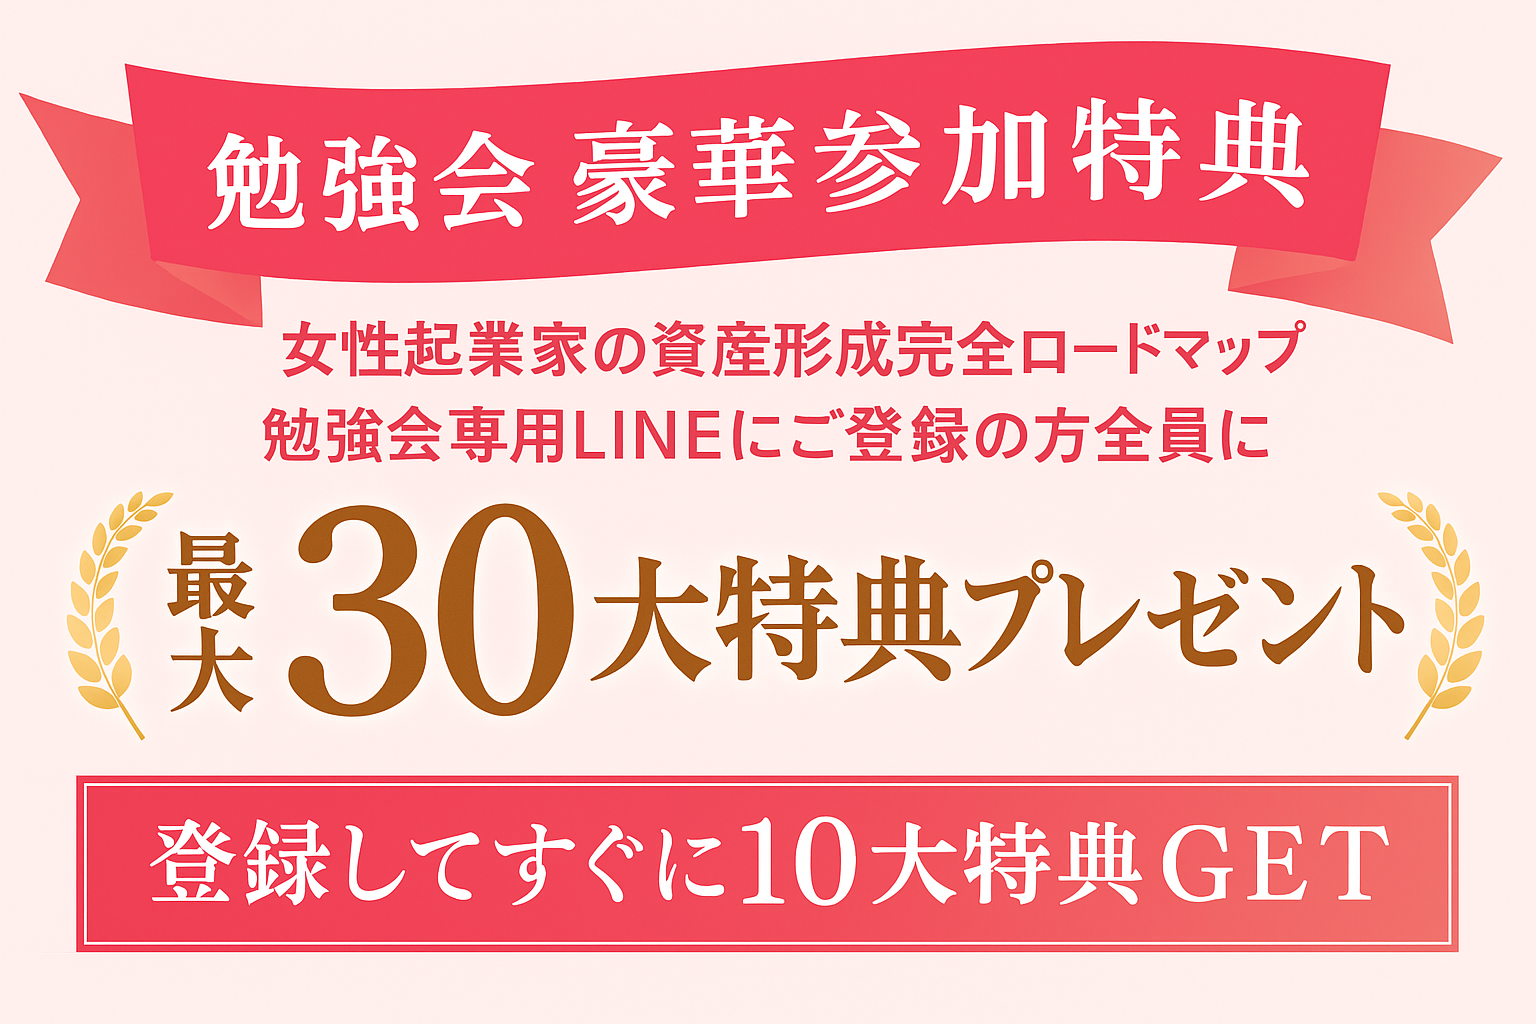
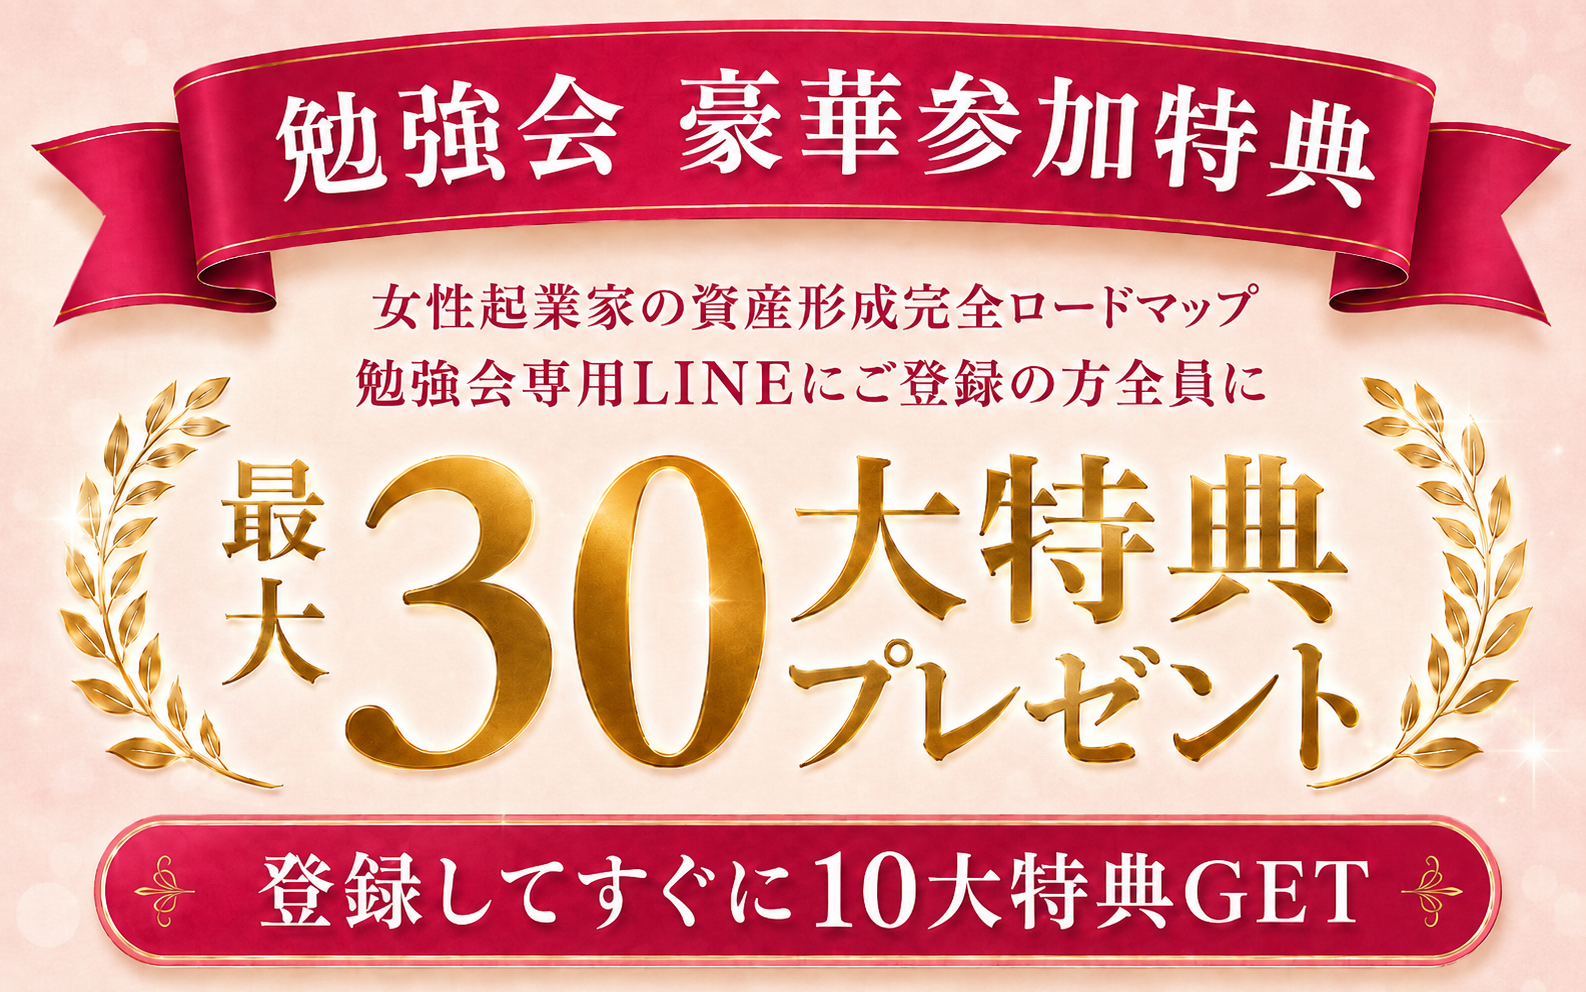
特典ヘッダーをユーザー作成版画像に差し替え＋「動画・PDFをお受け取り」2行を削除

diff --git a/index.html b/index.html
@@ -841,7 +841,7 @@ footer .f-copy{margin-top:14px;font-size:12px;opacity:.95;}
 
   <!-- ============ 2. 特典セクション ============ -->
   <section class="tokuten">
-    <img class="tokuten-head-img" src="images/tokuten-head.png?v=1" alt="勉強会 豪華参加特典｜女性起業家の資産形成完全ロードマップ 勉強会専用LINEにご登録の方全員に 最大30大特典プレゼント 登録してすぐに10大特典GET" width="1536" height="1024">
+    <img class="tokuten-head-img" src="images/tokuten-head.png?v=2" alt="勉強会 豪華参加特典｜女性起業家の資産形成完全ロードマップ 勉強会専用LINEにご登録の方全員に 最大30大特典プレゼント 登録してすぐに10大特典GET" width="1586" height="992">
 
     <div class="bk-grid">
       <div class="bk-row">
@@ -861,8 +861,6 @@ footer .f-copy{margin-top:14px;font-size:12px;opacity:.95;}
         <div class="bk-item"><img class="mk-img" src="images/line-tokuten-10.png?v=1" alt="5年後に後悔しない！女性経営者の資産形成ロードマップ" loading="lazy"></div>
       </div>
     </div>
-
-    <p class="tokuten-foot">LINE登録後すぐに、動画・PDFをお受け取りいただけます</p>
 
     <!-- さらに20大特典 -->
     <div class="more-box">
@@ -893,8 +891,6 @@ footer .f-copy{margin-top:14px;font-size:12px;opacity:.95;}
       <div class="pr-item"><img src="images/line-present-19.png?v=1" alt="ほったらかしで利益が増え続ける！収益物件ポートフォリオの作り方" loading="lazy"></div>
       <div class="pr-item"><img src="images/line-present-20.png?v=1" alt="売上を追う人生から卒業！働かなくてもお金が増える仕組みの作り方" loading="lazy"></div>
     </div>
-
-    <p class="tokuten-foot" style="margin-top:18px;">勉強会参加後すぐに、動画・PDFをお受け取りいただけます</p>
 
     <div class="cta-wrap" style="margin-top:36px;">
       <a class="cta-link" href="https://line.me/R/ti/p/@623nffxx"><img class="cta-img" src="images/cta-btn.png?v=3" alt="お金が増え続けていく仕組みを作りませんか？資産形成ロードマップをプレゼント。今すぐ無料で受け取る" width="1942" height="809"></a>
